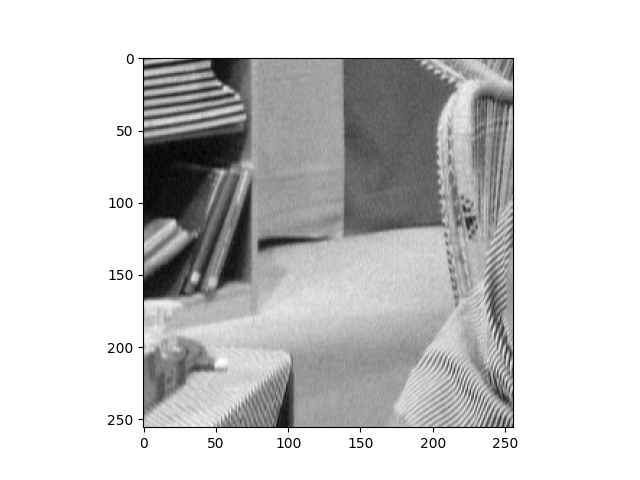
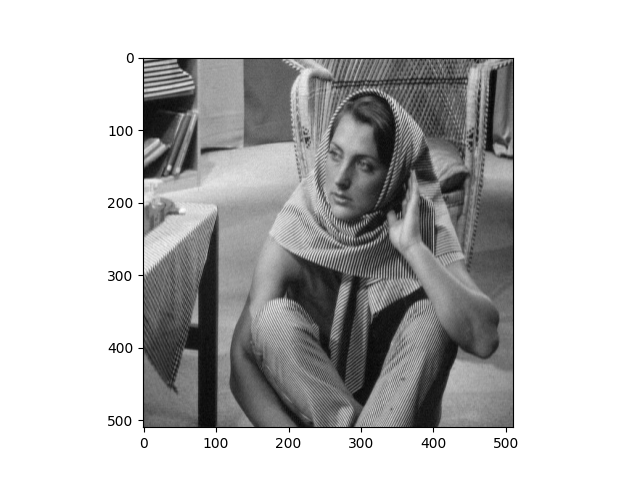
Added debluring

diff --git a/Project/poisson.py b/Project/poisson.py
@@ -9,14 +9,14 @@ def add_poisson_noise(x,lam):
 def blur(x):
     return cv2.GaussianBlur(x, (9,9), sigmaX=100, sigmaY=100)
 
-def denoise(x,lam):
+def denoise(x,y,s,lam):
     k = 0
     u = (np.zeros_like(x, dtype=np.float64))
     v = (np.zeros_like(x, dtype=np.float64))
     while True:
         x1 = x
         x = ((lam*(v-u)-1)+np.sqrt((lam*(v-u)-1)**2+4*lam*y))/(2*lam)
-        z = np.reshape(x+u, [image1.shape[0], image1.shape[1]])
+        z = np.reshape(x+u, [s,s])
         v = bm3d(z, np.sqrt(1/lam))
         v = np.reshape(v, -1)
         u = u+(x-v)
@@ -29,7 +29,7 @@ def denoise(x,lam):
         k = k+1
     return x
 
-def deblur(x, s, lam):
+def deblur(x, y, s, lam):
     one = np.ones_like(x)
     k = 0
     u = (np.zeros_like(x, dtype=np.float64))
@@ -39,12 +39,12 @@ def deblur(x, s, lam):
         k1 = 0
         while True:
             x2 = x
-            temp = cv2.GaussianBlur(np.reshape(x,[s,s]), (9, 9), sigmaX=10, sigmaY=10)
+            temp = cv2.GaussianBlur(np.array(np.reshape(x,[s,s]), np.uint8), (9, 9), sigmaX=10, sigmaY=10)
             temp = np.reshape(temp, -1)
-            temp = y/temp
-            temp = cv2.GaussianBlur(np.reshape(temp,[s,s]), (9, 9), sigmaX=10, sigmaY=10)
+            temp = y/np.array(temp, np.float64)
+            temp = cv2.GaussianBlur(np.array(np.reshape(temp,[s,s]),np.uint8), (9, 9), sigmaX=10, sigmaY=10)
             temp = np.reshape(temp, -1)
-            temp1 = cv2.GaussianBlur(np.reshape(one,[s,s]), (9, 9), sigmaX=10, sigmaY=10)
+            temp1 = cv2.GaussianBlur(np.array(np.reshape(one,[s,s]),np.uint8), (9, 9), sigmaX=10, sigmaY=10)
             temp1 = np.reshape(temp1, -1)
             x = x- ((-temp)+temp1 + lam*(x-v+u))
             if np.linalg.norm(x2-x)<1:
@@ -61,40 +61,45 @@ def deblur(x, s, lam):
             print(np.linalg.norm(x1-x))
         if np.linalg.norm(x1-x) < 0.1:
             break
-        if k > 50:
+        if k > 40:
             break
         k = k+1
     return x
 #LOAD IMAGE
 image = Image.open("barbara.jpg")
 image1 = np.asarray(image)
-image1 = image1[0:256, 0:256]
 plt.imshow(image1, cmap="gray")
 plt.show()
 plt.savefig("barb_crop.png")
 X = np.reshape(image1,-1)
-print(X.shape)
 
 lam = 100
 y = blur(np.reshape(X, [image1.shape[0], image1.shape[1]]))
-y = np.reshape(y, -1)
-y = add_poisson_noise(y,lam)
+y1 = np.reshape(y, -1)
+y2 = add_poisson_noise(y1,lam)
+y3 = add_poisson_noise(X, lam*10)
 
-y1 = np.reshape(y, [image1.shape[0], image1.shape[1]])
+y_noise = np.reshape(y3, [image1.shape[0], image1.shape[1]])
+y_blur = np.reshape(y2, [image1.shape[0], image1.shape[1]])
+
 #SHOW NOISY IMAGE
-plt.imshow(y1, cmap="gray")
+plt.imshow(y_noise, cmap="gray")
 plt.show()
-plt.savefig("noise_barb.png")
+plt.savefig("./denoise/noise_barb.png")
 
+#SHOW BLURRY IMAGE
+plt.imshow(y_blur, cmap="gray")
+plt.show()
+plt.savefig("./deblur/blurry_barb.png")
+x_denoise = denoise(y3,y3,image1.shape[0],lam*10)
+x_deblur = deblur(y2, y2, image1.shape[0],lam)
 
-#x_denoise = denoise(y,lam)
-x_deblur = deblur(y,image1.shape[0],lam)
-#recon_denoise = np.reshape(x_denoise, [image1.shape[0], image1.shape[1]])
+recon_denoise = np.reshape(x_denoise, [image1.shape[0], image1.shape[1]])
 recon_deblur = np.reshape(x_deblur, [image1.shape[0], image1.shape[1]])
 
-#plt.imshow(recon_denoise, cmap="gray")
-#plt.show()
-#plt.savefig("recon_denoise.png")
+plt.imshow(recon_denoise, cmap="gray")
+plt.show()
+plt.savefig("./denoise/recon_barbara_denoise.png")
 plt.imshow(recon_deblur, cmap="gray")
 plt.show()
-plt.savefig("recon_denoise.png")
+plt.savefig("./deblur/recon_barbara_deblur.png")
